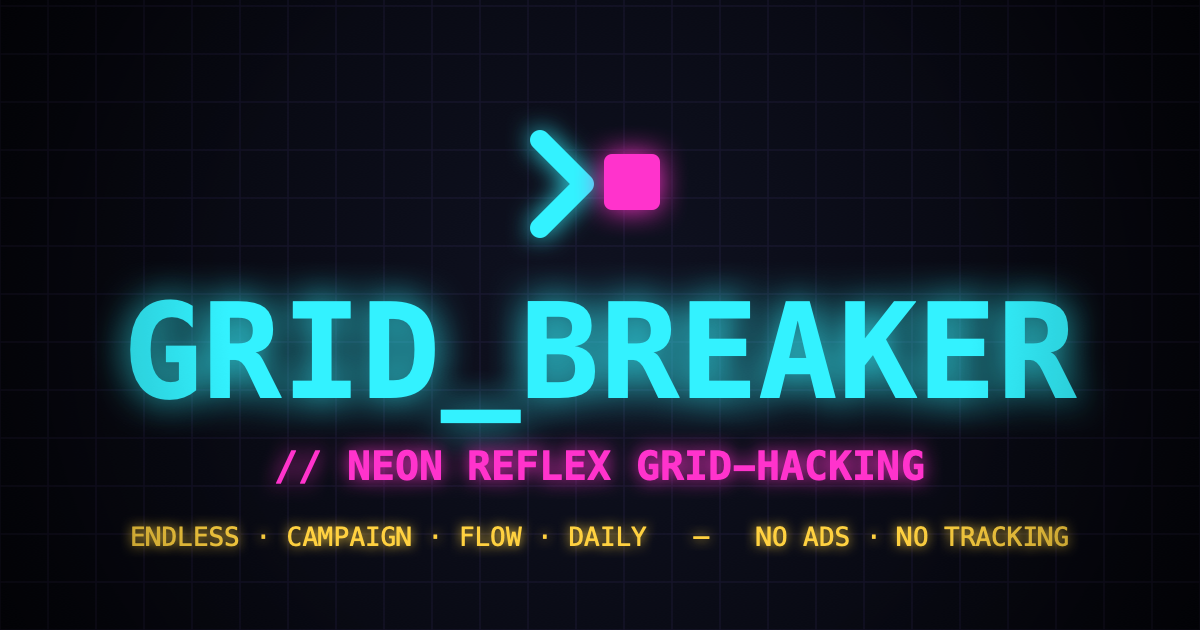
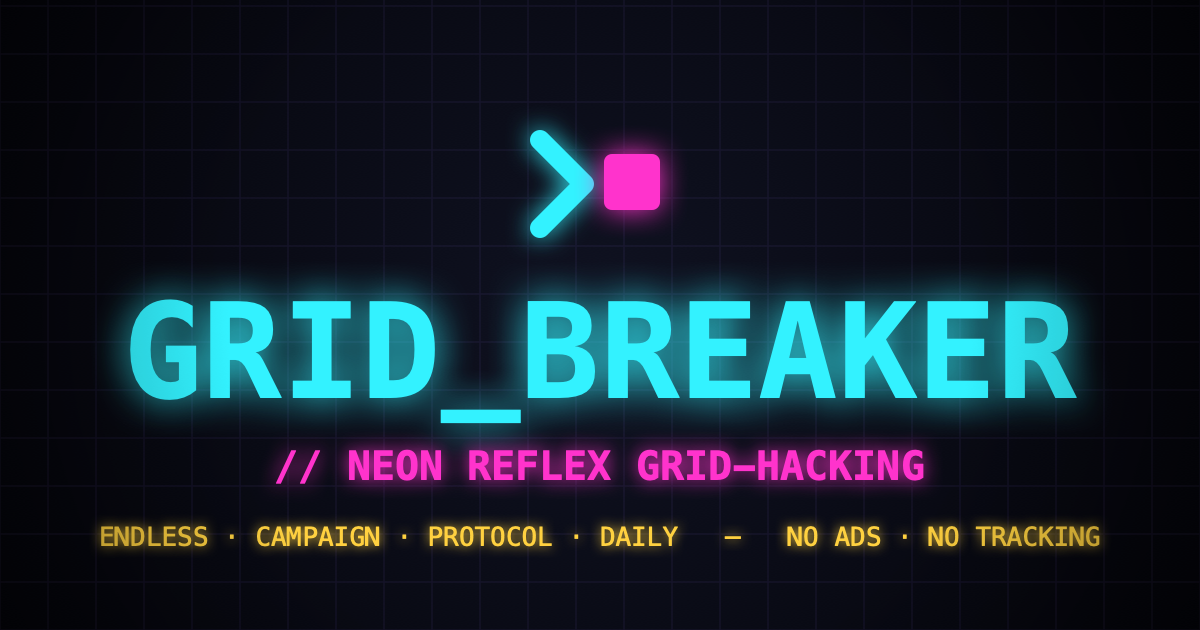
gridbreaker: deploy v1.3 site — preview video, latest screenshots, OG fix
Sync from GRID_BREAKER/docs/site: autoplay preview video, v1.3 screenshots
(menu / Campaign 2.0 / modifiers), copy fixes (16 cores, PROTOCOL, iPhone & iPad),
refreshed OG card.

Changed region(s): [[0.0617, 0.8143, 0.925, 0.8746]]

diff --git a/gridbreaker/index.html b/gridbreaker/index.html
@@ -35,6 +35,10 @@
           box-shadow:0 0 24px rgba(51,242,255,.4); }
   .badge.soon{ background:transparent; color:var(--cyan); border:1.6px solid var(--cyan); }
   .sub{ color:var(--dim); font-size:13px; margin-top:12px; }
+  /* preview video */
+  .video{ display:flex; justify-content:center; padding:30px 0 6px; }
+  .video video{ width:min(78%,304px); border-radius:30px; border:1px solid rgba(51,242,255,.28);
+                box-shadow:0 0 50px rgba(51,242,255,.22),0 18px 60px rgba(0,0,0,.6); background:#05060c; }
   /* shots */
   .shots{ display:flex; gap:16px; justify-content:center; flex-wrap:wrap; padding:26px 0 8px; }
   .shots img{ width:min(30%,220px); border-radius:18px; border:1px solid rgba(51,242,255,.18); box-shadow:0 10px 40px rgba(0,0,0,.5); }
@@ -60,14 +64,19 @@
     <div>
       <a class="badge" href="https://apps.apple.com/app/id6779888720">▼ Download on the App Store</a>
     </div>
-    <div class="sub">iPhone · Free · No ads · No tracking</div>
+    <div class="sub">iPhone &amp; iPad · Free · No ads · No tracking</div>
   </header>
 
   <div class="wrap">
+    <div class="video">
+      <video src="assets/preview.mp4" poster="assets/preview-poster.png"
+             autoplay muted loop playsinline preload="metadata"></video>
+    </div>
+
     <div class="shots">
-      <img src="assets/01-menu.png" alt="GRID_BREAKER main menu">
-      <img src="assets/02-fever.png" alt="Fever mode gameplay">
-      <img src="assets/03-campaign.png" alt="Campaign cores">
+      <img src="assets/shot-menu.png" alt="GRID_BREAKER main menu">
+      <img src="assets/shot-campaign.png" alt="Campaign 2.0 — 16 cores across 4 chapters">
+      <img src="assets/shot-modifiers.png" alt="Endless run modifiers">
     </div>
 
     <section>
@@ -80,8 +89,8 @@
       <h2>// FOUR MODES</h2>
       <div class="grid">
         <div class="card"><h3>ENDLESS</h3><p>Survive as long as your reflexes hold and chase the high score.</p></div>
-        <div class="card"><h3>CAMPAIGN</h3><p>10 hand-tuned data cores, each teaching one new mechanic, ramping to a real finale.</p></div>
-        <div class="card"><h3>FLOW</h3><p>A calm, no-fail mode to just tap and unwind.</p></div>
+        <div class="card"><h3>CAMPAIGN</h3><p>16 hand-tuned data cores across 4 chapters, each teaching one new mechanic and ending in a chapter boss.</p></div>
+        <div class="card"><h3>PROTOCOL</h3><p>Objective-driven endurance — DAEMON SETs and DMZ PURGEs with no relief and no power-ups.</p></div>
         <div class="card"><h3>DAILY HACK</h3><p>One shared board per day — everyone races the same seed.</p></div>
       </div>
     </section>